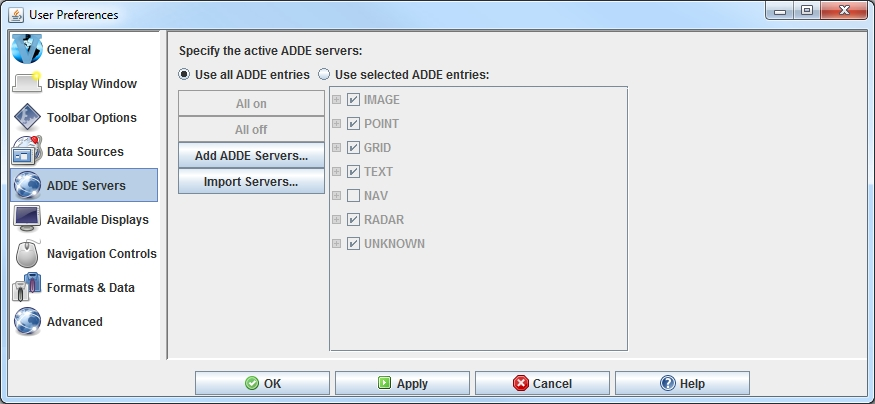
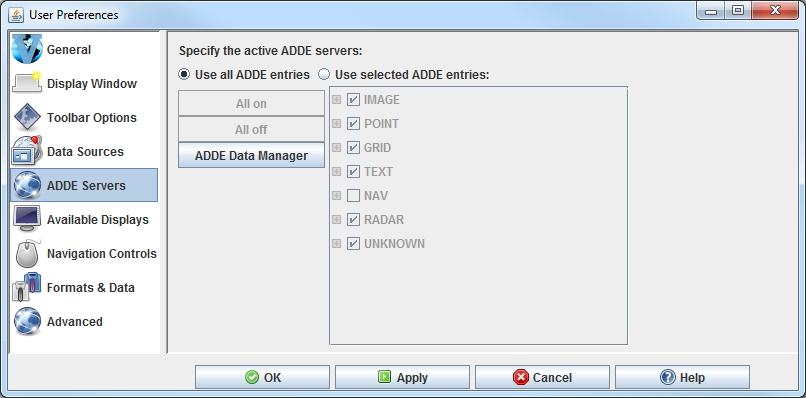
[0] Dreamweaver updates synced from web server.

Changed region(s): [[0.0, 0.0, 1.0, 1.0], [0.2171, 0.9045, 0.9305, 0.995], [0.4032, 0.8442, 0.7444, 0.8744]]

diff --git a/docs/userguide/processed/tools/preferences/ServerPreferences.html b/docs/userguide/processed/tools/preferences/ServerPreferences.html
@@ -33,7 +33,7 @@ function setParentPage() { if (parent.setPage) parent.setPage('tools/preferences
 applicable choosers in the<strong> Data Sources</strong> tab of the Data Explorer. The <strong>ADDE Servers</strong> tab allows the user to add and manage a list of active ADDE servers separated by data type. The selected ADDE entries will be included in the list of servers in the <strong>Data Sources</strong> tab of the Data Explorer. Limiting the number of servers in the <strong>Data Sources</strong> tab will make it easier to find the desired sources of data.</p>
 <p>The list of ADDE Servers is hierarchial, meaning that you can turn off all servers, specific groupings of servers (ex. Point), or individual servers within a group (ex. adde.ucar.edu/RTPTSRC can be turned off under POINT, but the rest can remain selected).</p>
 <p>The image below represents the default settings for the for the <strong>ADDE Servers</strong> tab. All of the ADDE entries are checked on except for 'NAV' and 'UNKNOWN'.</p>
-<div class="images"><img src="../images/NewPictures/ADDEServerPrefs.jpg" width="875" height="404" alt="Image 1: ADDE Servers Preferences (Default)"><br>
+<div class="images"><img src="../images/NewPictures/ADDEServerPrefs.jpg" width="806" height="398" alt="Image 1: ADDE Servers Preferences (Default)"><br>
   <span class="caption">Image 1: ADDE Servers Preferences (Default)</span></div>
 <p></p>
 <div class="pagesubtitle">Properties</div>
@@ -42,8 +42,7 @@ applicable choosers in the<strong> Data Sources</strong> tab of the Data Explore
 <li class="propertylistitem"><b>Use selected ADDE entries -</b> Uses only selected ADDE entries. This option allows you to individually select which&nbsp;types of ADDE servers are available to be used.</li>
 <li class="propertylistitem"> <img src="../images/preferences/AllOn.gif" alt="All on button" width="147" height="26"align=absmiddle> <strong> -</strong> Selects all of the ADDE entries. With this option selected, it is possible to use every type of ADDE data in McIDAS-V.</li>
 <li class="propertylistitem"> <img src="../images/preferences/AllOff.gif" alt="All off button" width="147" height="26"align=absmiddle> <strong> -</strong> Unselects all of the ADDE entries.</li>
-<li class="propertylistitem"><img src="../images/preferences/AddAddeServers.gif" alt="Add ADDE Servers button" width="147" height="26"align=absmiddle> <strong> -</strong> Opens the ADDE Data Manager where  a <a href="../RemoteDataManager.html">remote server</a> or a <a href="../LocalDataManager.html">local server</a> can be added.</li>
-<li class="propertylistitem"> <img src="../images/preferences/ImportServers.gif" alt="Import Servers button" width="147" height="26"align=absmiddle> <strong> -</strong> Opens the ADDE Data Manager where a <a href="../RemoteDataManager.html">remote server</a> or a <a href="../LocalDataManager.html">local server</a> can be added.</li>
+<li class="propertylistitem"><strong> <img src="../images/preferences/ADDEDataManager.gif" width="147" height="26" alt="ADDE Data Manager button" align=absmiddle> -</strong> Opens the ADDE Data Manager where  a <a href="../RemoteDataManager.html">remote server</a> or a <a href="../LocalDataManager.html">local server</a> can be added, removed, or edited.</li>
 </ul>
 <!-- InstanceEndEditable -->
 <div class="BottomTitleNav">
